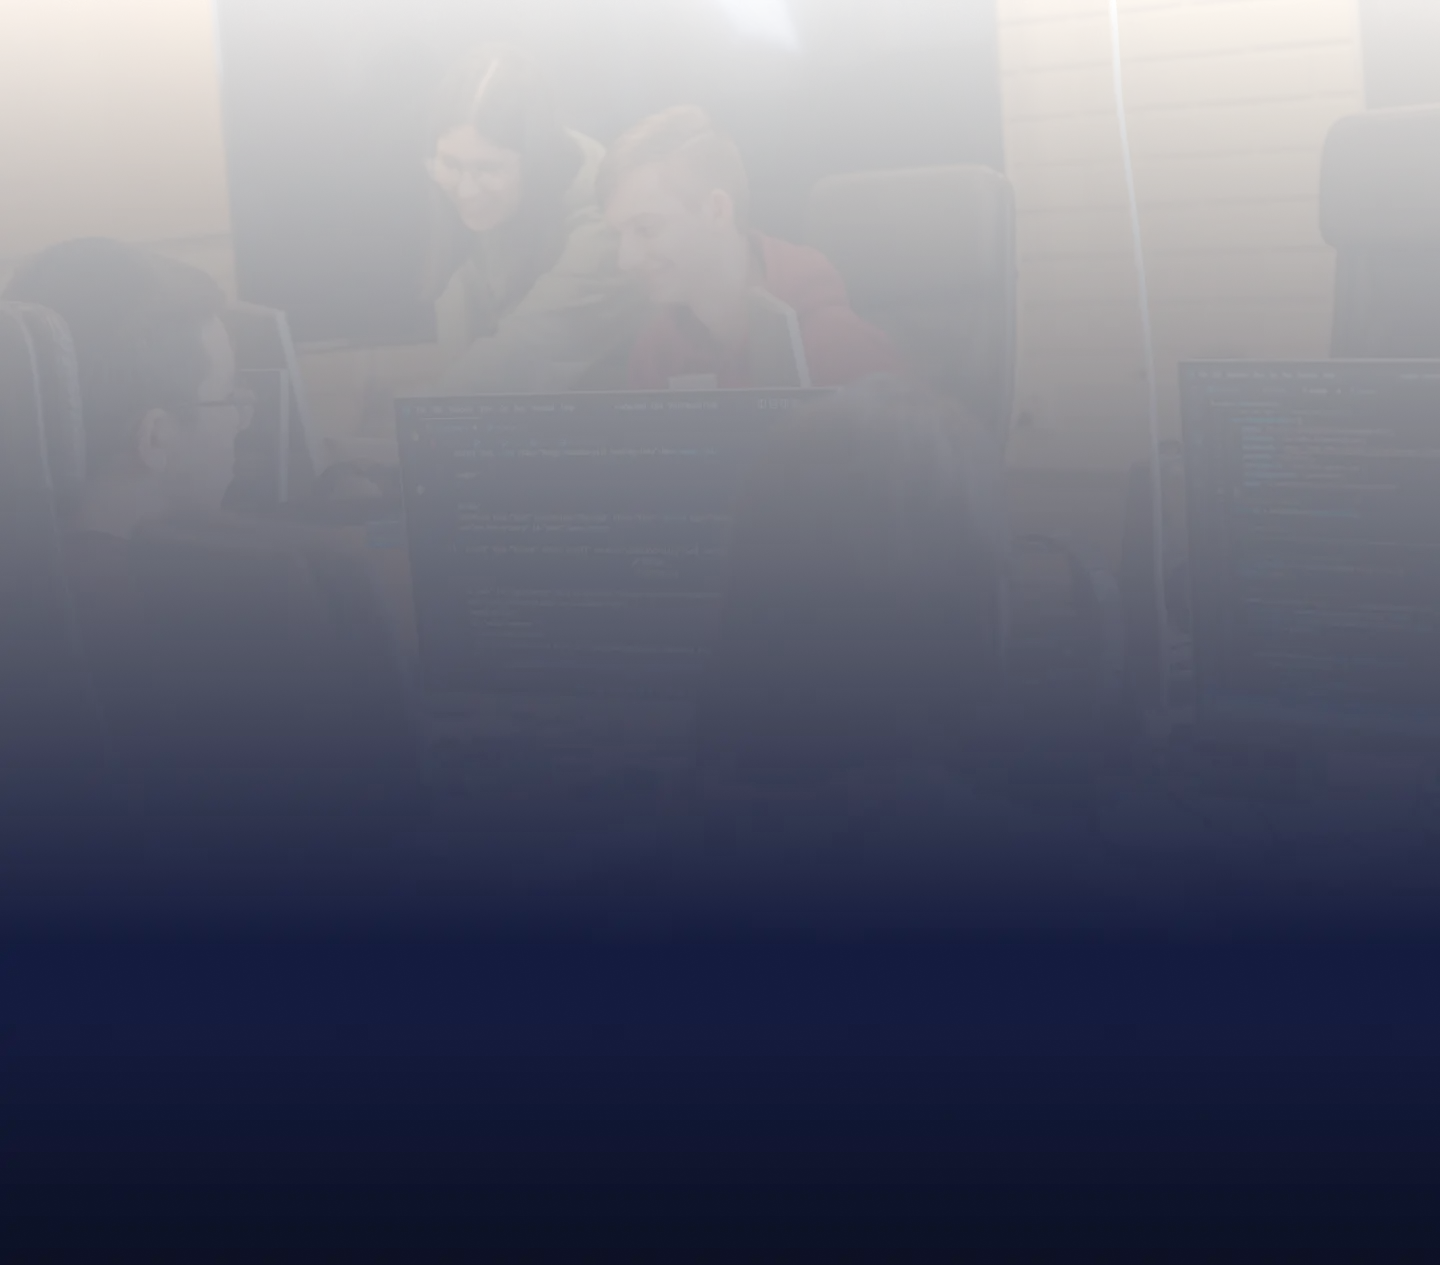
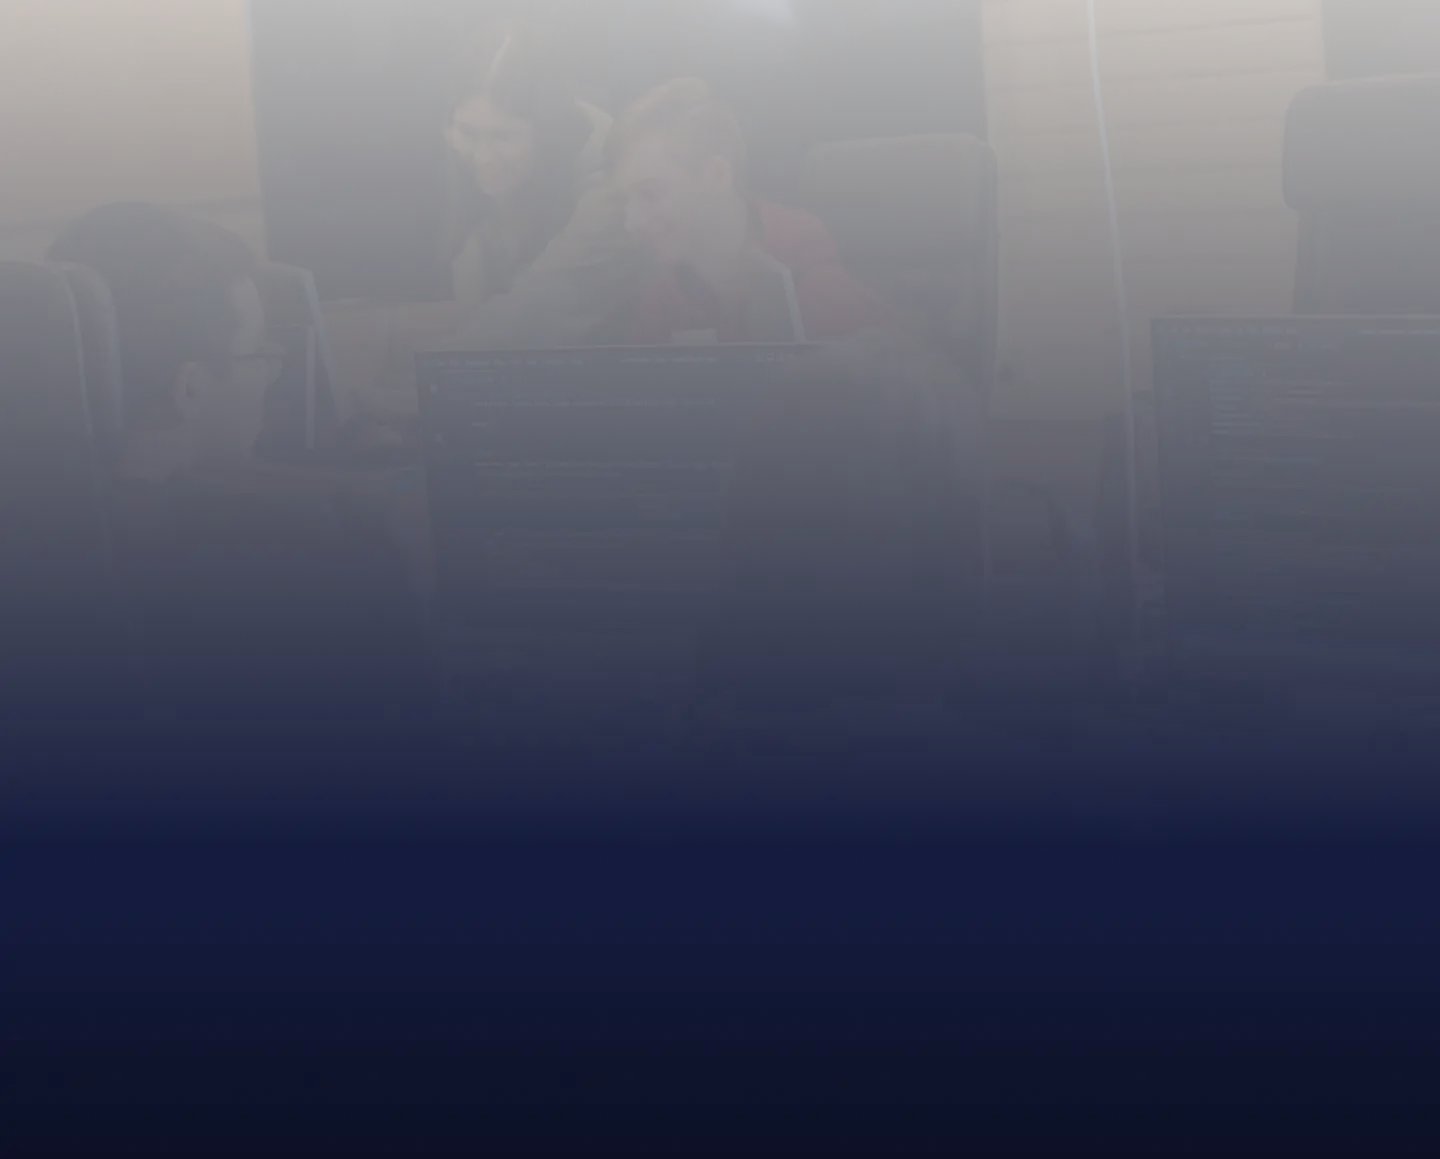
Update Layout

diff --git a/src/pages/index.tsx b/src/pages/index.tsx
@@ -14,16 +14,16 @@ export default function Home() {
             <a href="#main" className="flex justify-center items-center gap-3">
               <Image
                 src={"/logo.webp"}
-                width={1080}
-                height={720}
+                width={1920}
+                height={1080}
                 alt="Logo"
                 className="w-10 pl-3 sm:pl-1 pt-2"
               />
               <div className="flex flex-col">
                 <Image
                   src={"/optima.webp"}
-                  width={1080}
-                  height={720}
+                  width={1920}
+                  height={1080}
                   alt="Optima Logo"
                   className="w-20"
                 />
@@ -56,15 +56,15 @@ export default function Home() {
         </div>
       </nav>
 
-      <main className="flex flex-col items-center justify-center 2xl:flex-row 2xl:justify-between mx-5 lg:mx-36 mt-0 xl:mt-12 2xl:mt-56 xl:mb-16">
-        <div className="text-center 2xl:text-left mt-6 2xl:mt-0">
-          <h1 className="text-4xl xl:text-8xl bg-custom bg-[#db7d12] bg-clip-text text-transparent pb-2">
+      <main className="flex flex-col items-center justify-center xl:flex-row xl:justify-between mx-5 lg:mx-36 mt-0 xl:mt-48 mb-0 sm:mb-32 xl:mb-[22rem]">
+        <div className="text-center xl:text-left mt-6 xl:mt-0">
+          <h1 className="text-4xl xl:text-7xl 2xl:text-8xl bg-custom bg-[#db7d12] bg-clip-text text-transparent pb-2">
             Programmering
           </h1>
-          <h2 className="text-4xl xl:text-8xl">för allihopa</h2>
+          <h2 className="text-4xl xl:text-7xl 2xl:text-8xl">för allihopa</h2>
           <Slider href="https://opintopolku.fi/konfo/sv/toteutus/1.2.246.562.17.00000000000000010661" />
         </div>
-        <div className="max-w-[655px] w-full lg:w-auto lg:max-w-none 2xl:ml-12 mt-5">
+        <div className="max-w-[655px] w-full lg:w-auto lg:max-w-none xl:ml-12 mt-5">
           <Image
             src="/main.webp"
             width={1920}
@@ -75,36 +75,33 @@ export default function Home() {
         </div>
       </main>
 
-      <section
-        id="info"
-        className="mx-5 mt-20 2xl:mt-0 lg:mx-36 flex flex-col-reverse items-center lg:items-start lg:flex-row lg:justify-between xl:pt-48"
-      >
-        <div className="max-w-[655px] w-[50%] 2xl:w-[40%] lg:max-w-none lg:mr-12 mt-10">
-          <Image
-            src="/image.webp"
-            width={1920}
-            height={1080}
-            alt="Image"
-            className="w-full rounded-3xl"
-          />
-        </div>
-        <div className="mt-10">
-          <h1 className="text-3xl lg:text-4xl text-center lg:text-right lg:mb-3 max-w-[655px]">
-            Vad är det vi gör här?
-          </h1>
-          <p className="mt-5 text-xl text-center lg:text-right max-w-[655px]">
-            Vid denna bransch arbetar du med webbapplikationer och kommer att
-            lära dig full stack.
-          </p>
+      <section id="info" className="relative sm:pt-20 pt-32">
+        <Image
+          width={1920}
+          height={1080}
+          src="/image.webp"
+          alt="Main Image"
+          className="absolute sm:bottom-0 bottom-[-260px] left-0 w-full h-full object-cover z-[-9]"
+        />
+        <div className="flex justify-end">
+          <div className="px-5 sm:px-10 lg:px-36 py-0 sm:py-36">
+            <h1 className="text-right text-2xl sm:text-3xl lg:text-4xl sm:bg-[#141b3d] sm:rounded-t-xl sm:pt-8 sm:pb-2 sm:px-8">
+              Vad är det vi gör här?
+            </h1>
+            <p className="text-right text-gray-400 text-xl max-w-[655px] sm:bg-[#141b3d] sm:rounded-b-xl sm:pb-8 sm:px-8">
+              Vid denna bransch arbetar du med webbapplikationer och kommer att
+              lära dig full stack.
+            </p>
+          </div>
         </div>
       </section>
 
       <section
         id="courses"
-        className="flex flex-col items-center xl:flex-row justify-between px-4 xl:px-36 mb-0"
+        className="flex flex-col items-center xl:flex-row justify-between px-4 xl:px-36 pt-44 sm:pt-0 mb-0"
       >
         <div className="xl:w-[60%] xl:pr-8">
-          <h1 className="text-4xl lg:text-5xl mt-24">Kurser</h1>
+          <h1 className="text-4xl lg:text-5xl mt-32">Kurser</h1>
           <div className="mt-5 space-y-5 lg:space-y-3">
             <div className="w-full max-h-42 p-4 rounded-3xl bg-[#48922E] flex justify-center items-center">
               <div className="text-lg lg:text-xl text-center mx-4 lg:mx-8">
@@ -190,7 +187,7 @@ export default function Home() {
         id="contact"
         className="flex flex-col justify-center items-center px-6 2xl:px-0"
       >
-        <h1 className="text-3xl lg:text-5xl mt-20 2xl:mt-12 text-center">
+        <h1 className="text-3xl lg:text-5xl mt-10 2xl:mt-12 text-center">
           Kontakta oss
         </h1>
         <h2 className="text-gray-400 text-xl lg:text-3xl mt-1 lg:mt-3 text-center">
@@ -224,15 +221,12 @@ export default function Home() {
       </section>
 
       <footer className="bg-gray-900 mt-10 2xl:mt-20 w-full">
-        <div className="flex justify-between items-center px-1.5 lg:px-3 py-6 2xl:px-7 2xl:py-5">
-          <p className="text-[15px] 2xl:text-lg text-[#ffffe6de] font-bold">
-            © 2023 Optima
-          </p>
+        <div className="flex justify-between items-center px-3 py-6 2xl:px-7 2xl:py-5">
           <a href="https://optimaedu.fi/sv/" target="_blank">
             <Image
               src={"/optima.webp"}
-              width={1280}
-              height={720}
+              width={1920}
+              height={1080}
               alt="Optima Logo"
               className="w-24"
             />

diff --git a/src/pages/components/slider.tsx b/src/pages/components/slider.tsx
@@ -12,7 +12,7 @@ const Slider: React.FC<RangeInputProps> = ({ href }) => {
     setValue(newValue);
   };
 
-  const handleMouseUp = () => {
+  const handleRelease = () => {
     if (value === 20) {
       window.open(href, "_blank");
     }
@@ -21,9 +21,9 @@ const Slider: React.FC<RangeInputProps> = ({ href }) => {
 
   return (
     <>
-      <div className="flex flex-col items-center xl:flex-row xl:justify-center 2xl:justify-start">
+      <div className="flex flex-col items-center xl:flex-row xl:justify-start">
         <div>
-          <h1 className="sm:text-3xl sm:mt-10 xl:mt-5 xl:text-left text-center ml-0 mt-5">
+          <h1 className="sm:text-3xl sm:mt-10 xl:mt-5 xl:text-left text-center xl:ml-1 ml-0 mt-5">
             Ansökan
           </h1>
           <div className="flex items-center flex-col xl:flex-row">
@@ -33,8 +33,9 @@ const Slider: React.FC<RangeInputProps> = ({ href }) => {
               max="20"
               value={value}
               onChange={handleChange}
-              onMouseUp={handleMouseUp}
-              className="w-60 h-12 sm:w-72 xl:mt-3 mt-2 mb-3 bg-[#6b6b6b] appearance-none outline-none overflow-hidden rounded-full cursor-grab active:cursor-grabbing bg-gradient-to-r from-orange-800 via-orange-600 to-orange-400 animate-custom bg-[length:200%]"
+              onMouseUp={handleRelease}
+              onTouchEnd={handleRelease}
+              className="w-60 h-12 sm:w-72 xl:mt-2 mt-1 mb-3 bg-[#6b6b6b] appearance-none outline-none overflow-hidden rounded-full cursor-grab active:cursor-grabbing bg-gradient-to-r from-orange-800 via-orange-600 to-orange-400 animate-custom bg-[length:200%]"
             />
             <span className="sm:ml-3 ml-0 xl:mb-0 mb-5 text-sm">
               {value < 20 ? "Skjut åt höger" : "Släpp för att gå till länken"}

diff --git a/src/pages/_document.tsx b/src/pages/_document.tsx
@@ -9,7 +9,7 @@ export default function Document() {
       <link rel="shortcut icon" href="/favicon.svg" type="image/x-icon" />
       <title>Optima - Programutvecklare</title>
       <Head />
-      <body className="bg-[#0c1024] text-white font-montserrat">
+      <body className="bg-[#0c1024] text-[#ffffe6de] font-montserrat">
         <Main />
         <NextScript />
       </body>
